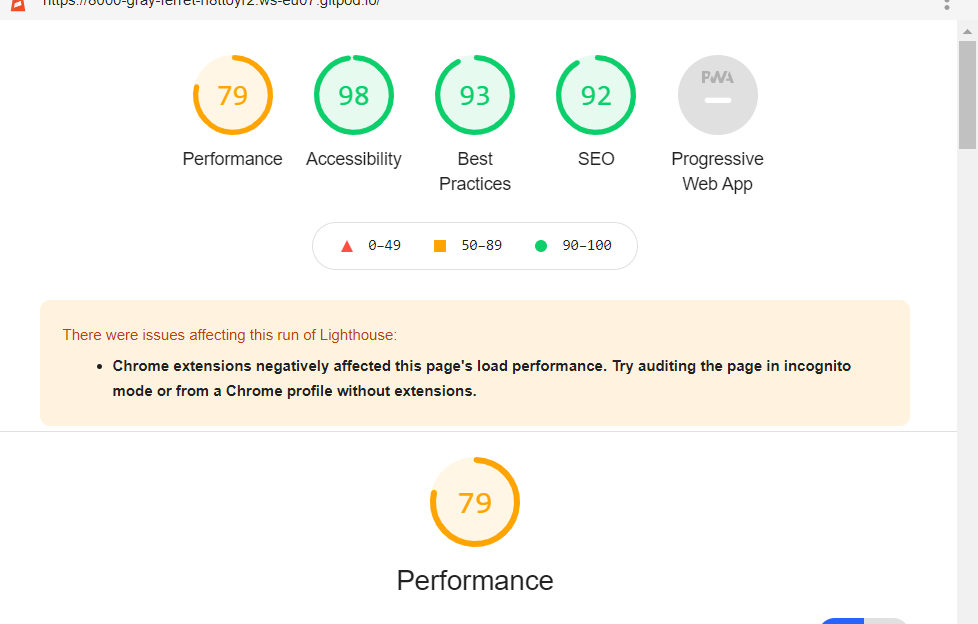
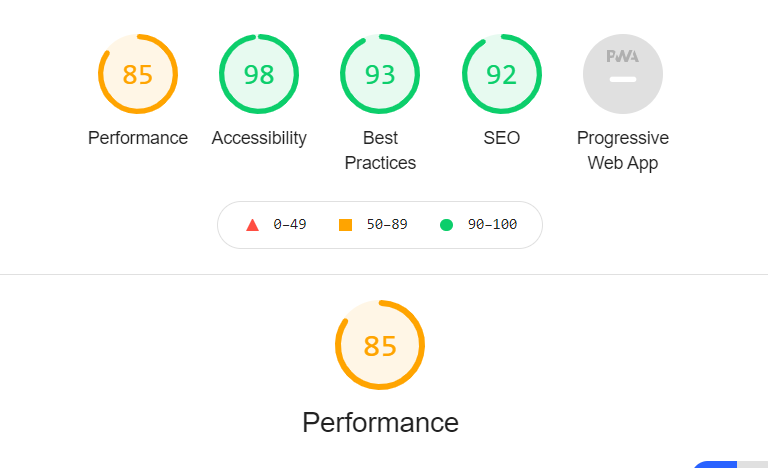
Replace lighthouse results on mobile for new. Add wireframe image to readme file

diff --git a/README.md b/README.md
@@ -23,7 +23,9 @@ pass the time with a fun game.
 - I want to be able to quit the game at any time.
 
 ## _Wireframes_
+- Balsamiq wireframes
 
+![](./assets/readme.imgs/MS2-wireframes.png)
 
 ## _Features_
 #### _Homepage_
@@ -62,13 +64,13 @@ feel more interaction with the site.
 - JavaScript for game logic.
 
 #### _Libraries and Frameworks used_
-- - [BootStrap](https://getbootstrap.com/docs/4.1/content/tables/)
+ - [BootStrap](https://getbootstrap.com/docs/4.1/content/tables/)
     - **Bootstrap classes** to make elements responsive to different screen devices.
-- - [Font_awesome](https://fontawesome.com/)
+ - [Font_awesome](https://fontawesome.com/)
     - **Font awesome icons** to decorate the text.
-- - [Google_fonts](https://fonts.google.com/)
+ - [Google_fonts](https://fonts.google.com/)
     - **Google fonts** for the font used in the webpage.
-- - [Balsamiq_Wireframes](https://balsamiq.com/wireframes/?gclid=CjwKCAjw47eFBhA9EiwAy8kzNIzUJovs67fX-HxfKaqbrJD7TjNN_URl15EZ4nMv_BDX0TkEIpQg_xoCdLMQAvD_BwE)
+ - [Balsamiq_Wireframes](https://balsamiq.com/wireframes/?gclid=CjwKCAjw47eFBhA9EiwAy8kzNIzUJovs67fX-HxfKaqbrJD7TjNN_URl15EZ4nMv_BDX0TkEIpQg_xoCdLMQAvD_BwE)
     - **Balsamiq wireframes** to create mockups of what the site will look like.
 
 #### _Tools and Other resources used_
